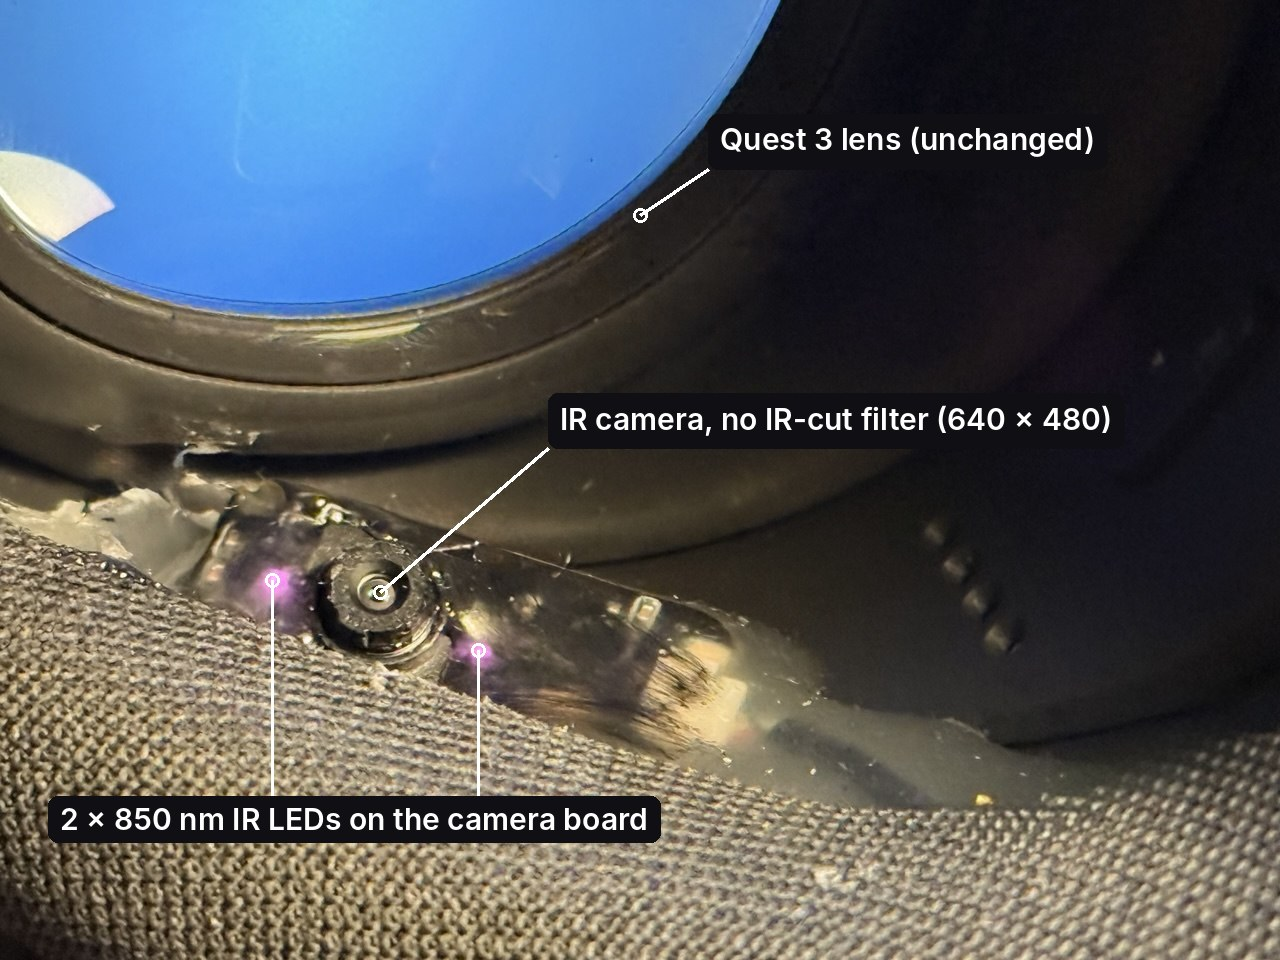
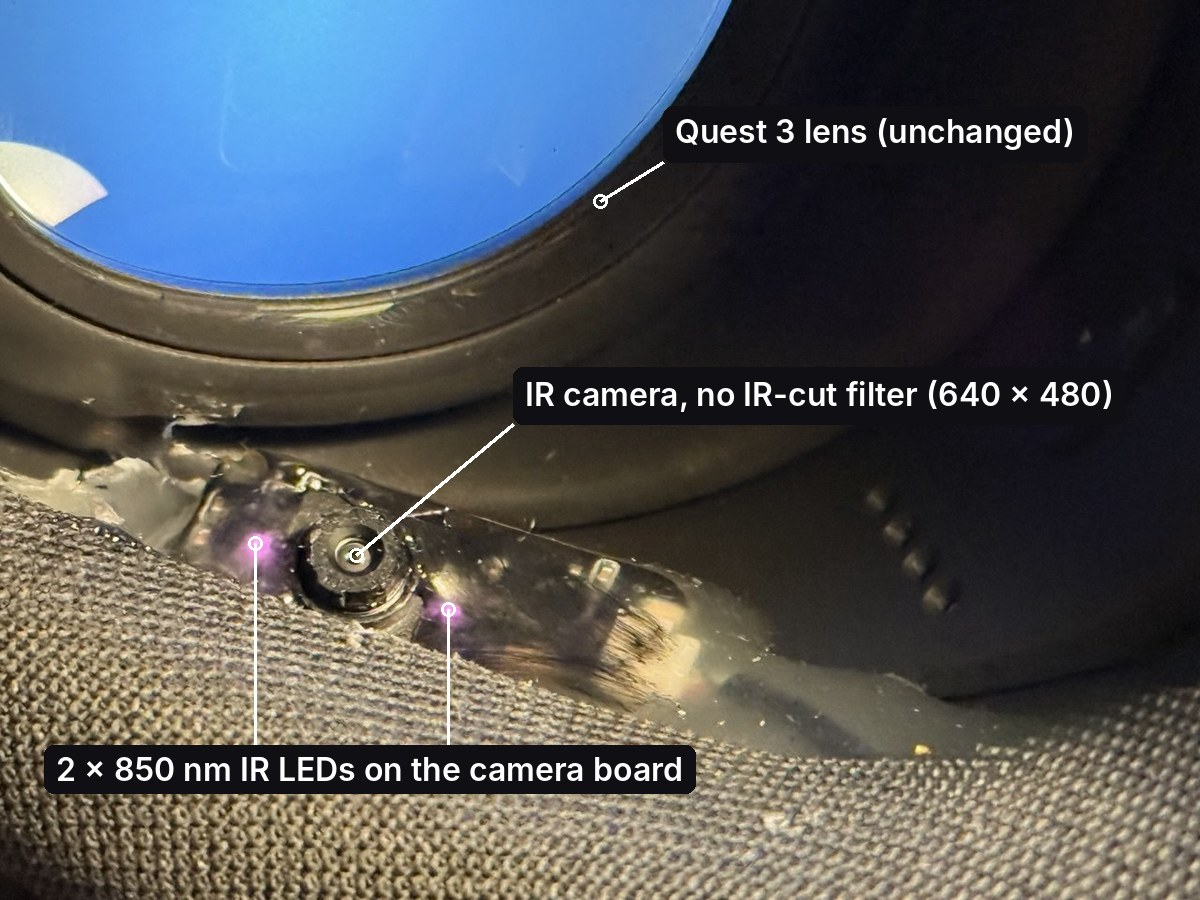
docs: equal-size hardware photos, one how-it-works strip, readable calibration panel, header GIF loops

diff --git a/README.md b/README.md
@@ -1,22 +1,22 @@
+# Gaze-XR-training: Eye tracking for any Unity VR scene
 <img src="media/header.gif" width="100%" alt="Headset view of a VR workbench with live fixation spheres, saccade lines and a gaze heatmap, with the IR eye camera in the corner">
 
-# gaze-XR-training: eye tracking for any Unity VR scene
 
 ![Unity](https://img.shields.io/badge/Unity-6-black) ![Quest 3](https://img.shields.io/badge/Meta-Quest%203-blue) ![Python](https://img.shields.io/badge/Python-3.12-yellow) ![OpenCV](https://img.shields.io/badge/OpenCV-4-green) ![macOS](https://img.shields.io/badge/runs%20on-macOS-lightgrey) ![License](https://img.shields.io/badge/license-Apache%202.0-blue)
 
-Add eye tracking to a VR app and see what people actually look at while they use it: live gaze, fixations, scanpaths and heatmaps inside the headset, plus a CSV log and synced videos for analysis afterwards.
+Add eye tracking to an Unity VR scene and see what people actually look at while they use it. This tool provides live gaze, fixations, scanpaths and heatmaps inside the headset, plus a CSV log and synced videos for analysis afterwards.
 
-The Meta Quest 3 has no eye tracker, so this repo also shows how to build one: a small USB infrared camera glued under the lens, a pupil tracker on a Mac, and the gaze streamed to the headset over Wi-Fi. The Unity side does not care where gaze comes from, so the same scripts work with a headset that has eye tracking built in.
+The Meta Quest 3 has no eye tracker, so this repo also shows how to build one yourself with a small USB infrared camera glued under the lens, a pupil tracker on a Mac, and the gaze streamed to the headset over Wi-Fi. The Unity side does not care where gaze comes from, so the same scripts work with a headset that has eye tracking built in.
 
 ## About the project
 
-I first built a VR workbench for testing virtual tools: you shape clay, break rock with a hammer, saw wood. It was made for haptics experiments, and the obvious question afterwards was where people look while they work. Do they watch the tool, the material, or their hand? Do they read the instructions before they start?
+As an example I first built a VR workbench in Unity for testing virtual tools: you shape clay, break rock with a hammer, saw wood. It was made for haptics experiments, and the obvious question afterwards was where people look while they work. Do they watch the tool, the material, or their hand? Do they read the instructions before they start?
 
 So I added eye tracking to it and used the workbench as the test case. The goal was a setup anyone can copy:
 
-1. **Hardware** that costs less than a game and fits inside a Quest 3.
-2. **A gaze toolkit for Unity** that you drop onto the camera of your own scene.
-3. **A session workflow** that gives you numbers and videos without manual work.
+- **Hardware** that costs less than a game and fits inside a Quest 3.
+- **A gaze toolkit for Unity** that you drop onto the camera of your own scene.
+- **A session workflow** that gives you numbers and videos without manual work.
 
 ## What you get
 
@@ -40,21 +40,14 @@ So I added eye tracking to it and used the workbench as the test case. The goal 
 
 ## How it works
 
-| 1. Eye camera | 2. Pupil fit | 3. Calibration | 4. Gaze in the scene |
-|---|---|---|---|
-| <img src="media/step1_eye_camera.jpg" width="220"> | <img src="media/step2_pupil_fit.jpg" width="220"> | <img src="media/step3_calibration.jpg" width="220"> | <img src="media/step4_scanpath.jpg" width="220"> |
-| An IR camera under the lens films the eye. | The Mac finds the pupil outline and its centre, about 10 ms per frame. | Nine dots map pupil position to gaze direction. This run: 0.8° mean, 1.4° worst. | The gaze ray hits the scene: fixations, scanpath, heatmap, looked-at object. |
+<img src="media/how_it_works.jpg" width="100%" alt="Eye camera, pupil fit, calibration result and gaze in the scene">
 
-```
-IR camera (inside the Quest 3)
-   │ USB
-Mac: tracker/eye_tracker.py  → pupil centre → gaze packet (seq, time, direction, confidence)
-   │ UDP over Wi-Fi
-Quest 3: Unity app → calibration → gaze ray → raycast into the scene
-   │                                   ├─ heatmap, scanpath, gaze dot (live)
-   │                                   └─ CSV log (per frame + events)
-Mac: tools/  → accuracy, synced videos, GIFs
-```
+1. **Eye camera.** An IR camera under the lens films the eye.
+2. **Pupil fit.** The Mac finds the pupil outline and its centre, about 10 ms per frame.
+3. **Calibration.** Nine dots map pupil position to gaze direction. This run: 0.8° mean, 1.4° worst.
+4. **Gaze in the scene.** The gaze ray hits the scene: fixations, scanpath, heatmap, looked-at object.
+
+
 
 Every gaze packet has a sequence number. The Mac saves it with the eye video and the headset saves it in its log, so both sides line up frame by frame later.
 
@@ -112,17 +105,9 @@ In the headset, press **A** and follow the instructions. Press Enter on the Mac 
 | B | recalibrate |
 | Thumbstick click | view: heatmap, scanpath, both, off |
 
-**5. Make videos**
-```bash
-python tools/make_gif.py sessions/<folder> --start 30 --end 45                    # side by side
-python tools/make_pip.py sessions/<folder> <quest_recording.mp4> --start 30 --end 60 --gif   # headset + eye inset
-```
-
-**Using a headset with built-in eye tracking?** Skip the camera and the Mac. Feed its gaze direction into `MonoGazeTracker` (it is a single `GazeSource` switch) and everything after that stays the same.
-
 ## Results
 
-Single user (me), one Quest 3, sessions recorded on 19 October 2026. Not a study, a check that the pipeline works.
+Single user (me), one Quest 3, sessions recorded. Not a study, a check that the pipeline works.
 
 | | |
 |---|---|
@@ -146,9 +131,6 @@ The calibration numbers are measured on the calibration dots themselves. The acc
 | One-frame jumps to eyelashes and reflections | a jump is only accepted if the next frame agrees |
 | Gaze dots turned magenta on the Quest | the default material is not drawn by URP in a build; all gaze visuals now use an unlit URP material that is always included |
 | The heatmap drew dotted lines during eye jumps | only fixations are painted (velocity threshold, I-VT) |
-| A Quest app cannot start the Quest recorder | the headset view is recorded over USB with scrcpy or with the built-in recorder, and the tools sync it by clock and sequence number |
-| NumPy 2 broke the dark-pupil search in the original code (uint8 overflow) | fixed |
-| iCloud Desktop sync made duplicate files that broke the Unity project | keep the project outside iCloud folders |
 
 ## Limitations
 
